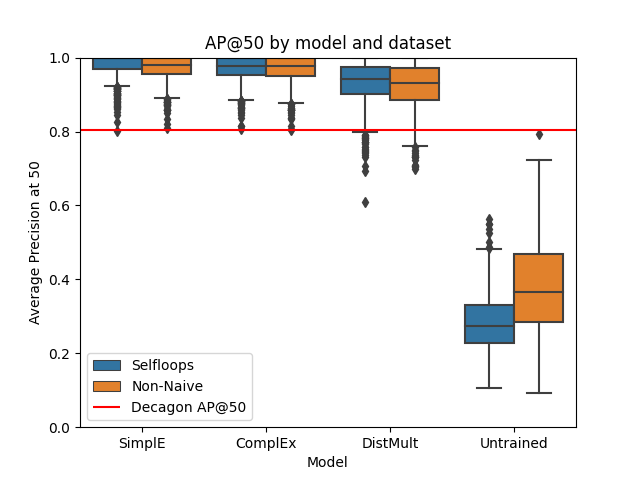
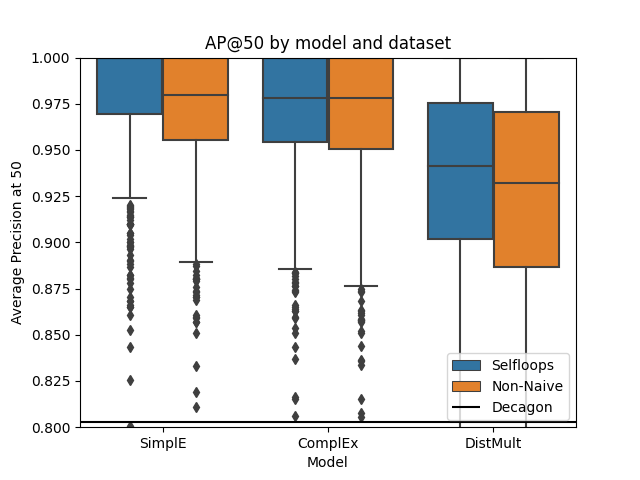
Other top performing model scores

diff --git a/analysis/assessment/results/viz.py b/analysis/assessment/results/viz.py
@@ -26,10 +26,17 @@ for loc in listdir():
         df['dataset'] = name_format[components[1]]
         results = results.append(df)
 
+# Remove untrained model scores if not desired
+include_untrained = False
+if not include_untrained:
+    results = results.loc[results.model != 'Untrained']
+
 # Set drawing parameters
 xmin = -0.5
 xmax = 3.5
-ymin = 0
+if not include_untrained:
+    xmax -= 1
+ymin = 0.8
 ymax = 1
 decagon_scores = {
     'AUROC': 0.872,
@@ -42,8 +49,17 @@ for metric in results.columns[1:4]:
     sns.boxplot(x='model', y=metric, hue='dataset', data=results)
     plt.hlines(
         decagon_scores[metric], xmin, xmax,
-        label=f'Decagon {metric}', colors='red'
+        label='Decagon', colors='black'
     )
+    if metric == 'AUROC':
+        plt.hlines(0.975, xmin, xmax, label='SimVec', colors='green')
+        plt.hlines(0.966, xmin, xmax, label='NNPS', colors='blue')
+        plt.hlines(0.998, xmin, xmax, label='GAT', linestyles='dashed', colors='red')
+    elif metric == 'AUPRC':
+        plt.hlines(0.968, xmin, xmax, label='SimVec', colors='green')
+        plt.hlines(0.953, xmin, xmax, label='NNPS', colors='blue')
+        plt.hlines(0.998, xmin, xmax, label='GAT', linestyles='dashed', colors='red')
+
     plt.xlim(xmin, xmax)
     plt.ylim(ymin, ymax)
     plt.legend()
